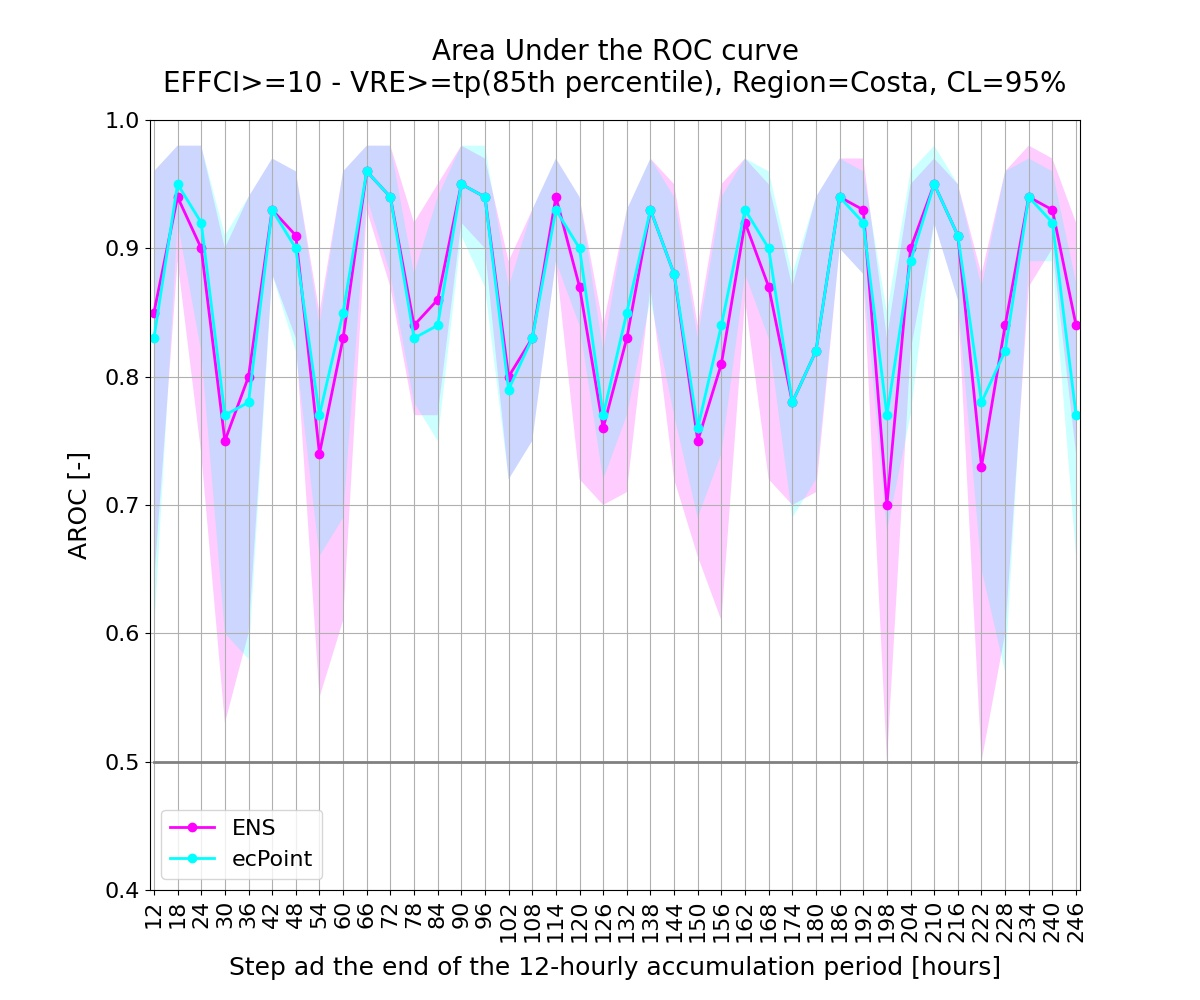
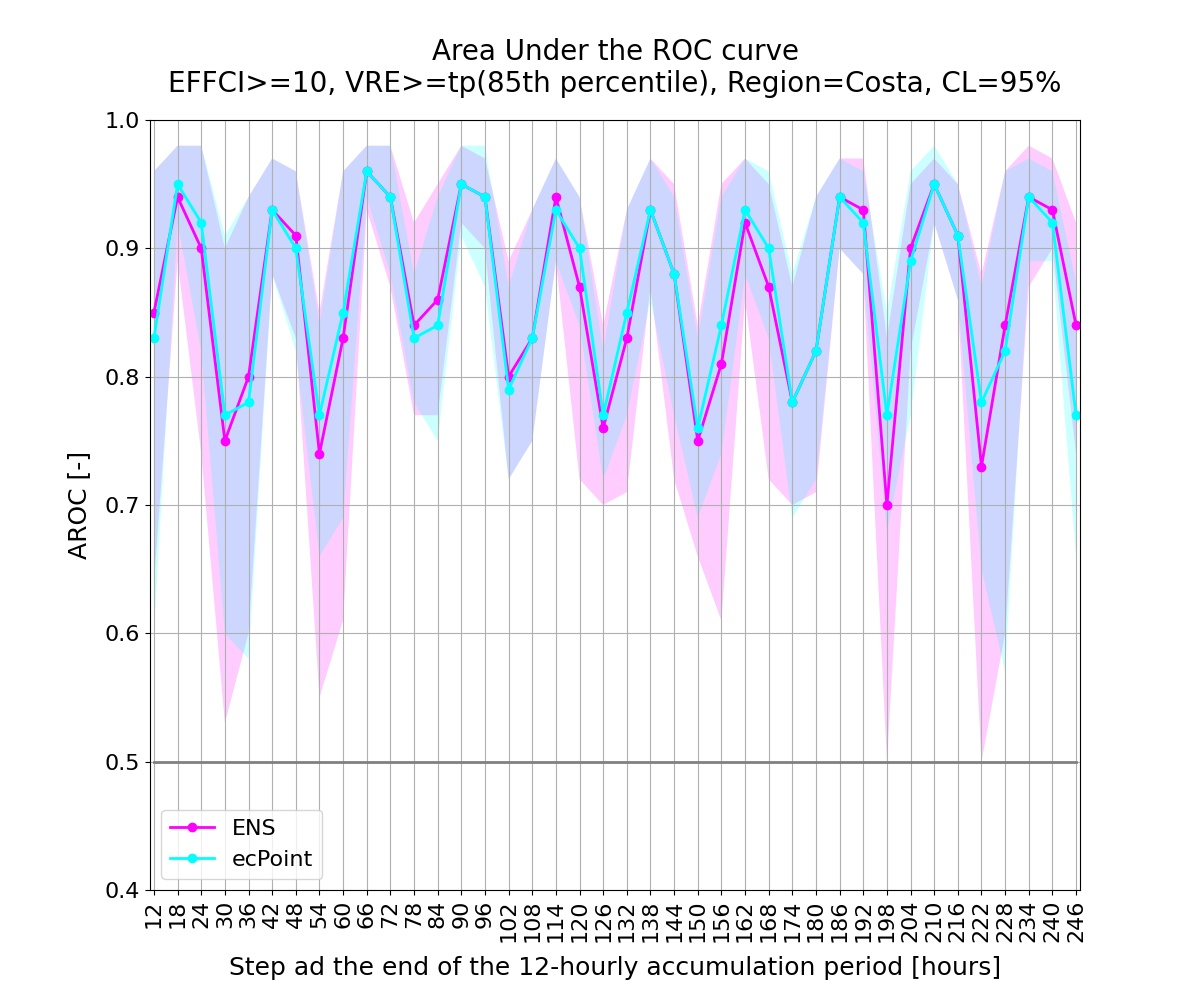
Completed the scripts that plot FB and AROC values.

Changed region(s): [[0.1233, 0.062, 0.8942, 0.093]]

diff --git a/Scripts/Processed/11_Plot_Bias_CI.py b/Scripts/Processed/11_Plot_Bias_CI.py
@@ -1,0 +1,125 @@
+import os
+import numpy as np
+import matplotlib.pyplot as plt
+
+#####################################################################################
+# CODE DESCRIPTION
+# 11_Plot_FB_CI.py plots Frequency Bias (FB) and confidence intervals (CI).
+# Note: the code can take up 20 minutes to run in serial.
+
+# INPUT PARAMETERS DESCRIPTION
+# Acc (number, in hours): rainfall accumulation to consider.
+# StepF_2_Plot_list (list of integers, in hours): list of final steps of the accumulation periods to consider.
+# EFFCI_list (list of integers, from 1 to 10): list of EFFCI indexes to consider.
+# MagnitudeInPerc_Rain_Event_FR_list (list of integers, from 0 to 100): list of magnitudes, in 
+#     percentiles, of rainfall events that can potentially conduct to flash floods.
+# CL (integer from 0 to 100, in percent): confidence level for the definition of the confidence intervals.
+# Perc_VRE (integer, from 0 to 100): percentile that defines the verifying rainfall event to consider.
+# RegionName_list (list of strings): list of names for the domain's regions.
+# SystemFC_list (list of strings): list of names of forecasting systems to consider.
+# Colour_SystemFC_list (list of strings): colours used to plot the FB for different forecasting systems.
+# Git_repo (string): repository's local path.
+# DirIN (string): relative path containing the real and boostrapped FB values.
+# DirOUT (string): relative path of the directory containing the plots of the real and boostrapped FB values.
+
+# INPUT PARAMETERS
+Acc = 12
+StepF_2_Plot_list = np.arange(12,246+1,6)
+EFFCI_list = [1,6,10]
+MagnitudeInPerc_Rain_Event_FR_list = [85,99]
+CL = 95
+RegionName_list = ["Costa","Sierra"]
+SystemFC_list = ["ENS", "ecPoint"]
+Colour_SystemFC_list = ["magenta", "cyan"]
+Git_repo="/ec/vol/ecpoint/mofp/PhD/Papers2Write/FlashFloods_Ecuador"
+DirIN = "Data/Compute/08_FB_Bootstrapping"
+DirOUT = "Data/Plot/11_FB"
+#####################################################################################
+
+
+# Plotting FB for a specific EFFCI index
+for EFFCI in EFFCI_list:
+       
+      # Plotting FB for a specific VRE
+      for MagnitudeInPerc_Rain_Event_FR in MagnitudeInPerc_Rain_Event_FR_list:
+
+            # Plotting FB for a specific region
+            for RegionName in RegionName_list: 
+                  
+                  print(" ")
+
+                  # Plotting FB for a specific StepF
+                  for StepF_2_Plot in StepF_2_Plot_list:
+                        
+                        print("Plotting FB for EFFCI>=" + str(EFFCI) + ", VRE>=tp(" + str(MagnitudeInPerc_Rain_Event_FR) + "th percentile), for StepF=" + str(StepF_2_Plot) + ", for Region=" +  RegionName + "...") 
+
+                        # Setting the figure
+                        fig, ax = plt.subplots(figsize=(12, 10))
+
+                        # Plotting FB for a specific forecasting system
+                        for indSystemFC in range(len(SystemFC_list)):
+                              
+                              # Selecting the forecasting system to plot, and its correspondent colour in the plot
+                              SystemFC = SystemFC_list[indSystemFC]
+                              Colour_SystemFC = Colour_SystemFC_list[indSystemFC]
+
+                              # Reading the steps and the percentiles computed, and the original and bootstrapped FB values
+                              DirIN_temp= Git_repo + "/" + DirIN + "/" + f"{Acc:02d}" + "h"
+                              FileNameIN_temp = "FB_" + f"{Acc:02d}" + "h_VRE" + f"{MagnitudeInPerc_Rain_Event_FR:02d}" + "_" + SystemFC + "_EFFCI" + f"{EFFCI:02d}" + "_" + RegionName + ".npy"
+                              StepF = np.load(DirIN_temp + "/" + FileNameIN_temp)[:,0].astype(int)[:,0]
+                              percentiles = np.load(DirIN_temp + "/" + FileNameIN_temp)[:,1].astype(int)[0]
+                              fb_real = np.load(DirIN_temp + "/" + FileNameIN_temp)[:,2]
+                              fb_BS = np.load(DirIN_temp + "/" + FileNameIN_temp)[:,3:]
+                        
+                              # Finding the index of the StepF to plot
+                              indStepF = np.where(StepF == StepF_2_Plot)[0]
+                              percentiles = 100 - ( percentiles / percentiles[0] * 100 ) 
+                              fb_real = fb_real[indStepF,:][0]
+                              fb_BS = fb_BS[indStepF,:,:][0]
+
+                              # Computing the confidence intervals from the bootstrapped FB values
+                              alpha = 100 - CL # significance level (in %)
+                              CI_lower = np.nanpercentile(fb_BS, alpha/2, axis=0)
+                              CI_upper = np.nanpercentile(fb_BS, 100 - (alpha/2), axis=0)
+
+                              # Plotting the FB values
+                              ax.plot(percentiles, fb_real, "o-", color=Colour_SystemFC, label=SystemFC, linewidth=2)
+                              ax.fill_between(percentiles, CI_lower, CI_upper, color=Colour_SystemFC, alpha=0.2, edgecolor="none")
+                        
+                        # Setting the plot metadata
+                        ax.set_title("Frequency Bias\n" + r"EFFCI>=" + str(EFFCI) + " - VRE>=tp(" + str(MagnitudeInPerc_Rain_Event_FR) + "th percentile), Region=" +  RegionName + ", CL=" + str(CL) + "%", fontsize=20, pad=20)
+                        ax.set_xlabel("Percentiles [-]", fontsize=18, labelpad=10)
+                        ax.set_ylabel("Frequency Bias [-]", fontsize=18, labelpad=10)
+                        ax.set_xlim([-1,101])
+                        ax.set_ylim([0, np.max(CI_upper)+100])
+                        ax.set_xticks(np.arange(0,101,5))
+                        ax.set_yticks(np.arange(0,max(CI_upper)+100, 1000))
+                        ax.xaxis.set_tick_params(labelsize=16)
+                        ax.yaxis.set_tick_params(labelsize=16, rotation=90)
+                        ax.legend(loc="upper left", fontsize=16)
+                        ax.grid()
+                        
+                        # Saving the plot
+                        DirOUT_temp= Git_repo + "/" + DirOUT + "/" + f"{Acc:02d}" + "h/VRE" + f"{MagnitudeInPerc_Rain_Event_FR:02d}" + "/EFFCI" + f"{EFFCI:02d}"  + "/" + RegionName
+                        FileNameOUT_temp = "FB_" + f"{Acc:02d}" + "h_VRE" + f"{MagnitudeInPerc_Rain_Event_FR:02d}" + "_EFFCI" + f"{EFFCI:02d}" + "_" + RegionName + "_" +  f"{StepF_2_Plot:03d}" + ".jpeg"
+                        if not os.path.exists(DirOUT_temp):
+                              os.makedirs(DirOUT_temp)
+                        plt.savefig(DirOUT_temp + "/" + FileNameOUT_temp)
+                        
+                        # Setting the plot metadata
+                        ax.plot([-1,101], [1, 1], "-", color="grey", linewidth=2)
+                        ax.set_title("Frequency Bias\n" + "StepF=" + f"{StepF_2_Plot:03d}" + r", EFFCI>=" + str(EFFCI) + ", VRE>=tp(" + str(MagnitudeInPerc_Rain_Event_FR) + "th percentile), Region=" +  RegionName + ", CL=" + str(CL) + "%", fontsize=20, pad=20)
+                        ax.set_xlabel("Percentiles [-]", fontsize=18, labelpad=10)
+                        ax.set_ylabel("Frequency Bias [-]", fontsize=18, labelpad=10)
+                        ax.set_xlim([-1,101])
+                        ax.set_ylim([0, 10])
+                        ax.set_xticks(np.arange(0,101,5))
+                        ax.set_yticks(np.arange(0,11))
+                        ax.xaxis.set_tick_params(labelsize=16)
+                        ax.yaxis.set_tick_params(labelsize=16)
+                        ax.legend(loc="upper right", fontsize=16)
+                        
+                        # Saving the plot
+                        FileNameOUT_temp = "ZoomedFB_" + f"{Acc:02d}" + "h_VRE" + f"{MagnitudeInPerc_Rain_Event_FR:02d}" + "_EFFCI" + f"{EFFCI:02d}" + "_" + RegionName + "_" +  f"{StepF_2_Plot:03d}" + ".jpeg"
+                        plt.savefig(DirOUT_temp + "/" + FileNameOUT_temp)
+                        plt.close() 

diff --git a/Scripts/Processed/10_Plot_AROC_CI.py b/Scripts/Processed/10_Plot_AROC_CI.py
@@ -5,6 +5,7 @@ import matplotlib.pyplot as plt
 #####################################################################################
 # CODE DESCRIPTION
 # 10_Plot_AROC_CI.py plots AROC and confidence intervals (CI).
+# Note: runtime negligible.
 
 # INPUT PARAMETERS DESCRIPTION
 # Acc (number, in hours): rainfall accumulation to consider.
@@ -12,15 +13,12 @@ import matplotlib.pyplot as plt
 # MagnitudeInPerc_Rain_Event_FR_list (list of integers, from 0 to 100): list of magnitudes, in 
 #     percentiles, of rainfall events that can potentially conduct to flash floods.
 # CL (integer from 0 to 100, in percent): confidence level for the definition of the confidence intervals.
-# Perc_VRE (integer, from 0 to 100): percentile that defines the verifying rainfall event to consider.
 # RegionName_list (list of strings): list of names for the domain's regions.
-# Lines_Region_list (list of strings): types of lines used to plot ROC curves for different regions. 
 # SystemFC_list (list of strings): list of names of forecasting systems to consider.
-# NumEM_list (list of integers): numer of ensemble members in the considered forecasting systems.
-# Colour_SystemFC_list (list of strings): colours used to plot ROC curves for different forecasting systems.
+# Colour_SystemFC_list (list of strings): colours used to plot the AROC values for different forecasting systems.
 # Git_repo (string): repository's local path.
-# DirIN (string): relative path containing the daily probabilistic contingency tables.
-# DirOUT (string): relative path of the directory containing the daily probabilistic contingency tables.
+# DirIN (string): relative path containing the real and boostrapped AROC values.
+# DirOUT (string):  relative path of the directory containing the plots of the real and boostrapped AROC values.
 
 # INPUT PARAMETERS
 Acc = 12
@@ -28,7 +26,6 @@ EFFCI_list = [1,6,10]
 MagnitudeInPerc_Rain_Event_FR_list = [85,99]
 CL = 95
 RegionName_list = ["Costa","Sierra"]
-Lines_Region_list = ["o-", "o-"]
 SystemFC_list = ["ENS", "ecPoint"]
 Colour_SystemFC_list = ["magenta", "cyan"]
 Git_repo="/ec/vol/ecpoint/mofp/PhD/Papers2Write/FlashFloods_Ecuador"
@@ -37,25 +34,21 @@ DirOUT = "Data/Plot/10_AROC"
 #####################################################################################
 
 
-# Plotting ROC curves for a specific EFFCI index
+# Plotting AROC values for a specific EFFCI index
 for EFFCI in EFFCI_list:
        
-       # Plotting ROC curves for a specific VRE
+       # Plotting AROC values for a specific VRE
       for MagnitudeInPerc_Rain_Event_FR in MagnitudeInPerc_Rain_Event_FR_list:
 
-            print("Plotting AROC curves for EFFCI>=" + str(EFFCI) + ", VRE>=tp(" + str(MagnitudeInPerc_Rain_Event_FR) + "th percentile) ...") 
+            print("Plotting AROC values for EFFCI>=" + str(EFFCI) + ", VRE>=tp(" + str(MagnitudeInPerc_Rain_Event_FR) + "th percentile) ...") 
 
-            # Plotting AROC for a specific region
-            for indRegion in range(len(RegionName_list)): 
+            # Plotting AROC values for a specific region
+            for RegionName in RegionName_list: 
 
-                  # Selecting the region to plot, and its correspondent line type in the plot
-                  RegionName = RegionName_list[indRegion]
-                  Lines_Region = Lines_Region_list[indRegion]
-                  
                   # Setting the figure
                   fig, ax = plt.subplots(figsize=(12, 10))
 
-                  # Plotting AROC for a specific forecasting system
+                  # Plotting AROC values for a specific forecasting system
                   for indSystemFC in range(len(SystemFC_list)):
                         
                         # Selecting the forecasting system to plot, and its correspondent colour in the plot
@@ -74,14 +67,14 @@ for EFFCI in EFFCI_list:
                         CI_lower = np.nanpercentile(aroc_BS, alpha/2, axis=1)
                         CI_upper = np.nanpercentile(aroc_BS, 100 - (alpha/2), axis=1)
 
-                        # Plotting the ROC curves
-                        ax.plot(StepF, aroc_real, Lines_Region, color=Colour_SystemFC, label=SystemFC, linewidth=2)
+                        # Plotting the AROC values
+                        ax.plot(StepF, aroc_real, "o-", color=Colour_SystemFC, label=SystemFC, linewidth=2)
                         ax.fill_between(StepF, CI_lower, CI_upper, color=Colour_SystemFC, alpha=0.2, edgecolor="none")
                   
                   # Setting the plot metadata
                   ax.plot([StepF[0], StepF[-1]], [0.5, 0.5], "-", color="grey", linewidth=2)
                   DiscStep = ((StepF[-1] - StepF[0]) / (len(StepF)-1))
-                  ax.set_title("Area Under the ROC curve\n" + r"EFFCI>=" + str(EFFCI) + " - VRE>=tp(" + str(MagnitudeInPerc_Rain_Event_FR) + "th percentile), Region=" +  RegionName + ", CL=" + str(CL) + "%", fontsize=20, pad=20)
+                  ax.set_title("Area Under the ROC curve\n" + r"EFFCI>=" + str(EFFCI) + ", VRE>=tp(" + str(MagnitudeInPerc_Rain_Event_FR) + "th percentile), Region=" +  RegionName + ", CL=" + str(CL) + "%", fontsize=20, pad=20)
                   ax.set_xlabel("Step ad the end of the " + str(Acc) + "-hourly accumulation period [hours]", fontsize=18, labelpad=10)
                   ax.set_ylabel("AROC [-]", fontsize=18, labelpad=10)
                   ax.set_xlim([StepF[0]-1, StepF[-1]+1])
